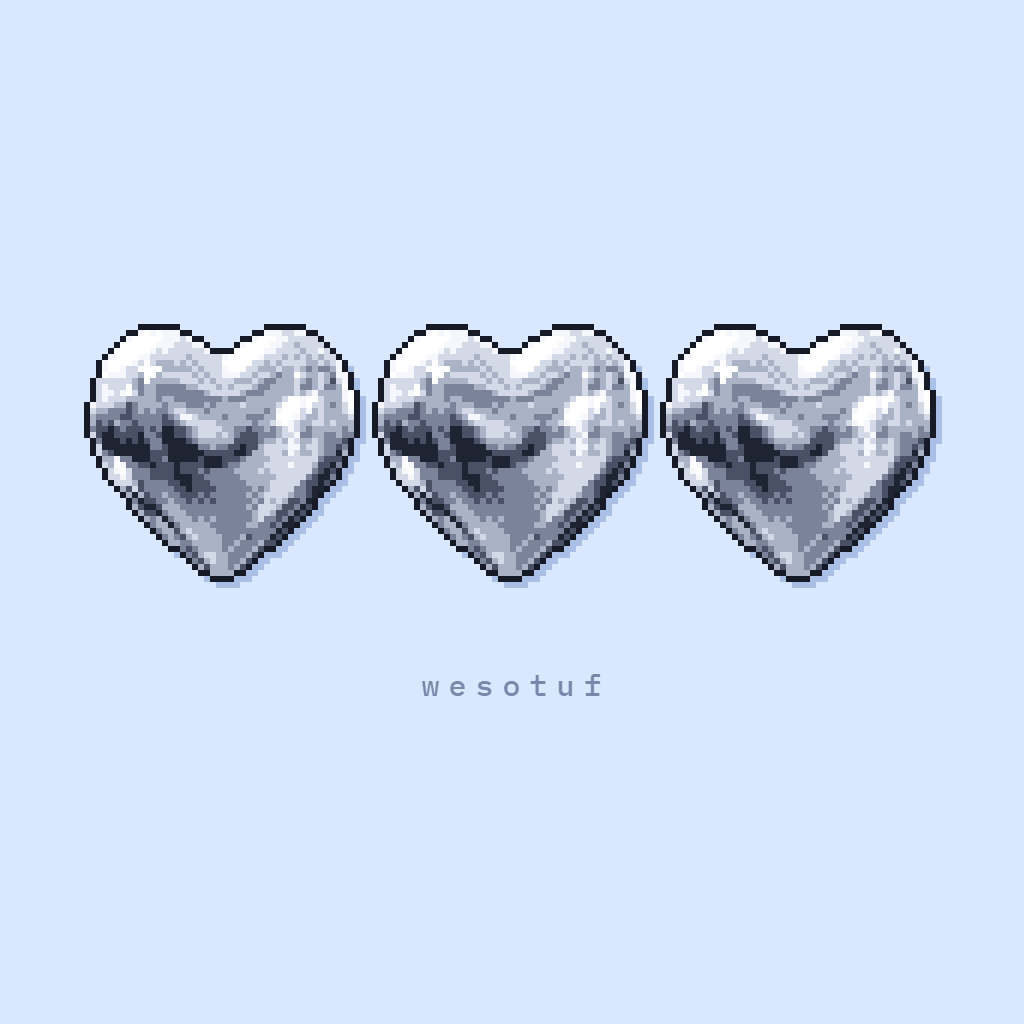
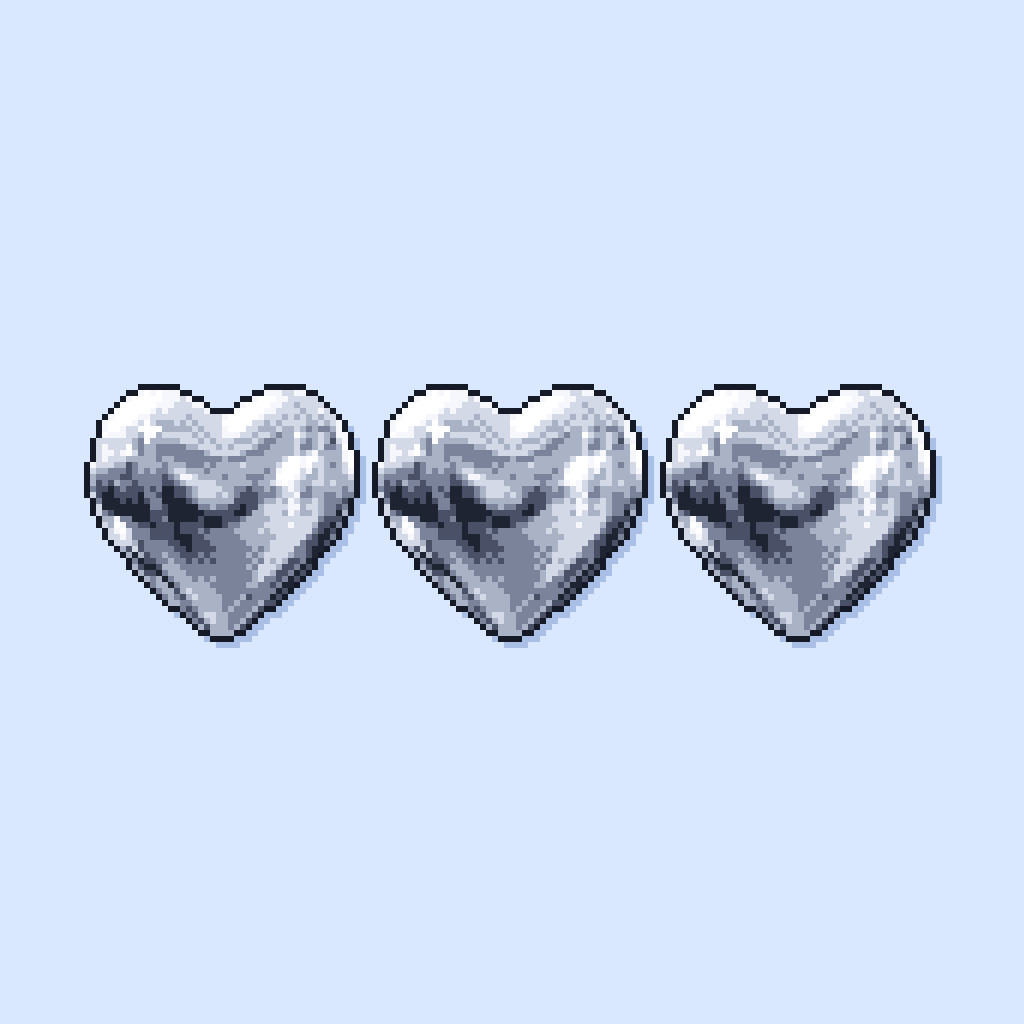
Hearts only: remove the wesotuf writing
- icon is three centered pixel hearts, no text (192, 512, 180 + 1024 master)
- removed the tiny name under the logo on the sign-in page and launch screen
- removed the name from the footer; sign-in hearts are centered
- cache-buster bumped to v=3 so phones fetch the new icon

Changed region(s): [[0.0625, 0.3125, 0.9375, 0.6875]]

diff --git a/app/index.html b/app/index.html
@@ -9,9 +9,9 @@
   <meta name="apple-mobile-web-app-title" content="wesotuf">
   <title>wesotuf</title>
   <!-- the hearts logo: browser tab, "Add to Home Screen" icon and installed-app icon -->
-  <link rel="icon" type="image/png" href="icon-192.png?v=2">
-  <link rel="apple-touch-icon" href="apple-touch-icon.png?v=2">
-  <link rel="manifest" href="manifest.webmanifest?v=2">
+  <link rel="icon" type="image/png" href="icon-192.png?v=3">
+  <link rel="apple-touch-icon" href="apple-touch-icon.png?v=3">
+  <link rel="manifest" href="manifest.webmanifest?v=3">
   <link rel="preconnect" href="https://fonts.googleapis.com">
   <link rel="preconnect" href="https://fonts.gstatic.com" crossorigin>
   <link href="https://fonts.googleapis.com/css2?family=IBM+Plex+Mono:wght@400;500;700&family=Newsreader:ital,opsz,wght@0,6..72,400;0,6..72,500;1,6..72,400&display=swap" rel="stylesheet">
@@ -26,7 +26,7 @@
 <body>
 
   <!-- launch cover (only visible when opened as an installed app) -->
-  <div class="cover" aria-hidden="true"><img class="logo-img" src="logo-hearts.png" alt=""><span class="word mono">wesotuf</span></div>
+  <div class="cover" aria-hidden="true"><img class="logo-img" src="logo-hearts.png" alt=""></div>
 
   <!-- ============ Main screen ============ -->
   <div class="app">
@@ -52,7 +52,6 @@
 
     <footer class="foot">
       <div class="mono">
-        wesotuf<br>
         <button class="linkish" id="settingsBtn" type="button">settings</button>
         <span class="sync" id="syncState"></span>
       </div>
@@ -220,7 +219,7 @@
   <!-- Sign in (only when cloud sync is configured) -->
   <div class="auth" id="auth" hidden>
     <form class="auth-box" id="authForm" novalidate>
-      <img class="logo-img auth-logo" src="logo-hearts.png" alt=""><span class="word mono">wesotuf</span>
+      <img class="logo-img auth-logo" src="logo-hearts.png" alt="">
 
       <label class="mono small" for="authEmail">Email</label>
       <input type="email" id="authEmail" autocomplete="email" autocapitalize="off" spellcheck="false">

diff --git a/app/styles.css b/app/styles.css
@@ -341,7 +341,6 @@ html[data-theme="pink"] { --loc-color: #b0104a; --loc-bg: transparent; --loc-pad
 .cover { display: none; position: fixed; inset: 0; z-index: 100; background: #d9e8ff; place-items: center; }
 .standalone .cover { display: flex; flex-direction: column; align-items: center; justify-content: center; animation: coverOut .5s ease 1s forwards; }
 .cover .logo-img { height: 72px; }
-.cover .word { margin-top: 18px; }
 @keyframes coverOut { to { opacity: 0; visibility: hidden; } }
 
 /* share as a link (inside the story sheet) */
@@ -366,7 +365,6 @@ html[data-theme="pink"] { --loc-color: #b0104a; --loc-bg: transparent; --loc-pad
 .auth { position: fixed; inset: 0; z-index: 90; background: #d9e8ff; color: var(--ink); display: grid; place-items: center; padding: 24px; overflow-y: auto; }
 .auth[hidden] { display: none; }
 .auth-box { width: min(100%, 360px); display: flex; flex-direction: column; gap: 4px; }
-.auth-box .word { margin-bottom: 26px; }
 .auth .small { display: block; margin: 12px 0 2px; opacity: .7; font-size: 9.5px; }
 .auth input {
   width: 100%; background: transparent; border: 0; border-bottom: 1px solid var(--ink); border-radius: 0;
@@ -421,8 +419,7 @@ html[data-theme="pink"] { --loc-color: #b0104a; --loc-bg: transparent; --loc-pad
   *, *::before, *::after { transition-duration: .01ms !important; animation-duration: .01ms !important; }
 }
 
-/* the hearts logo, and the tiny typewriter name that goes with it: present, never loud */
+/* the hearts logo */
 .logo-img { display: block; width: auto; image-rendering: pixelated; }
 .foot-logo { height: 26px; }
-.auth-logo { height: 38px; margin-bottom: 8px; align-self: flex-start; } /* flex column: don't stretch it full width */
-.word { display: block; font-size: 9px; letter-spacing: .24em; text-transform: lowercase; opacity: .55; }
+.auth-logo { height: 38px; margin-bottom: 26px; align-self: center; } /* flex column: don't stretch it full width */
